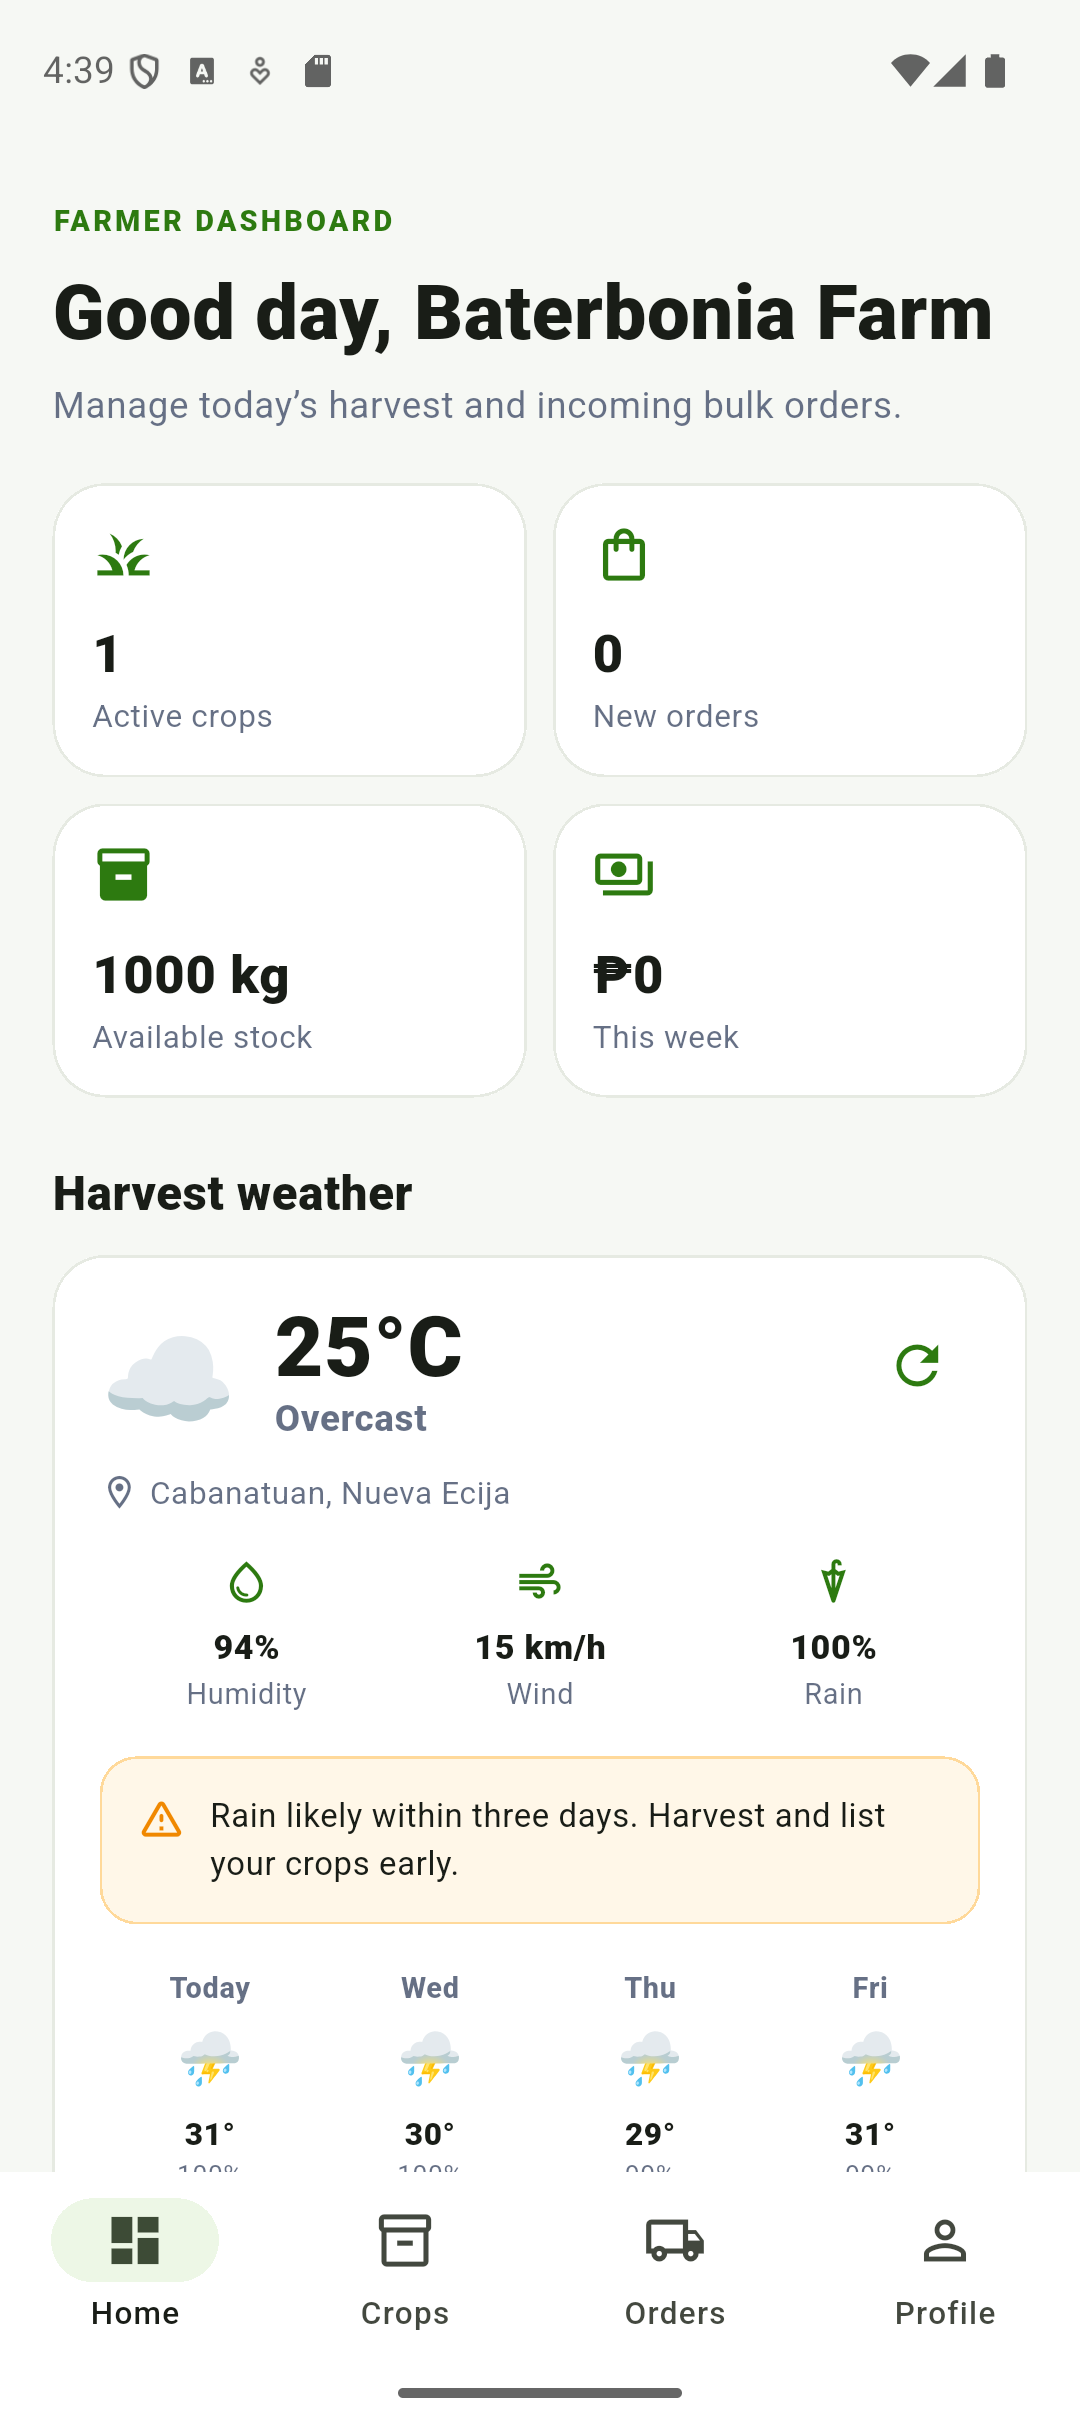
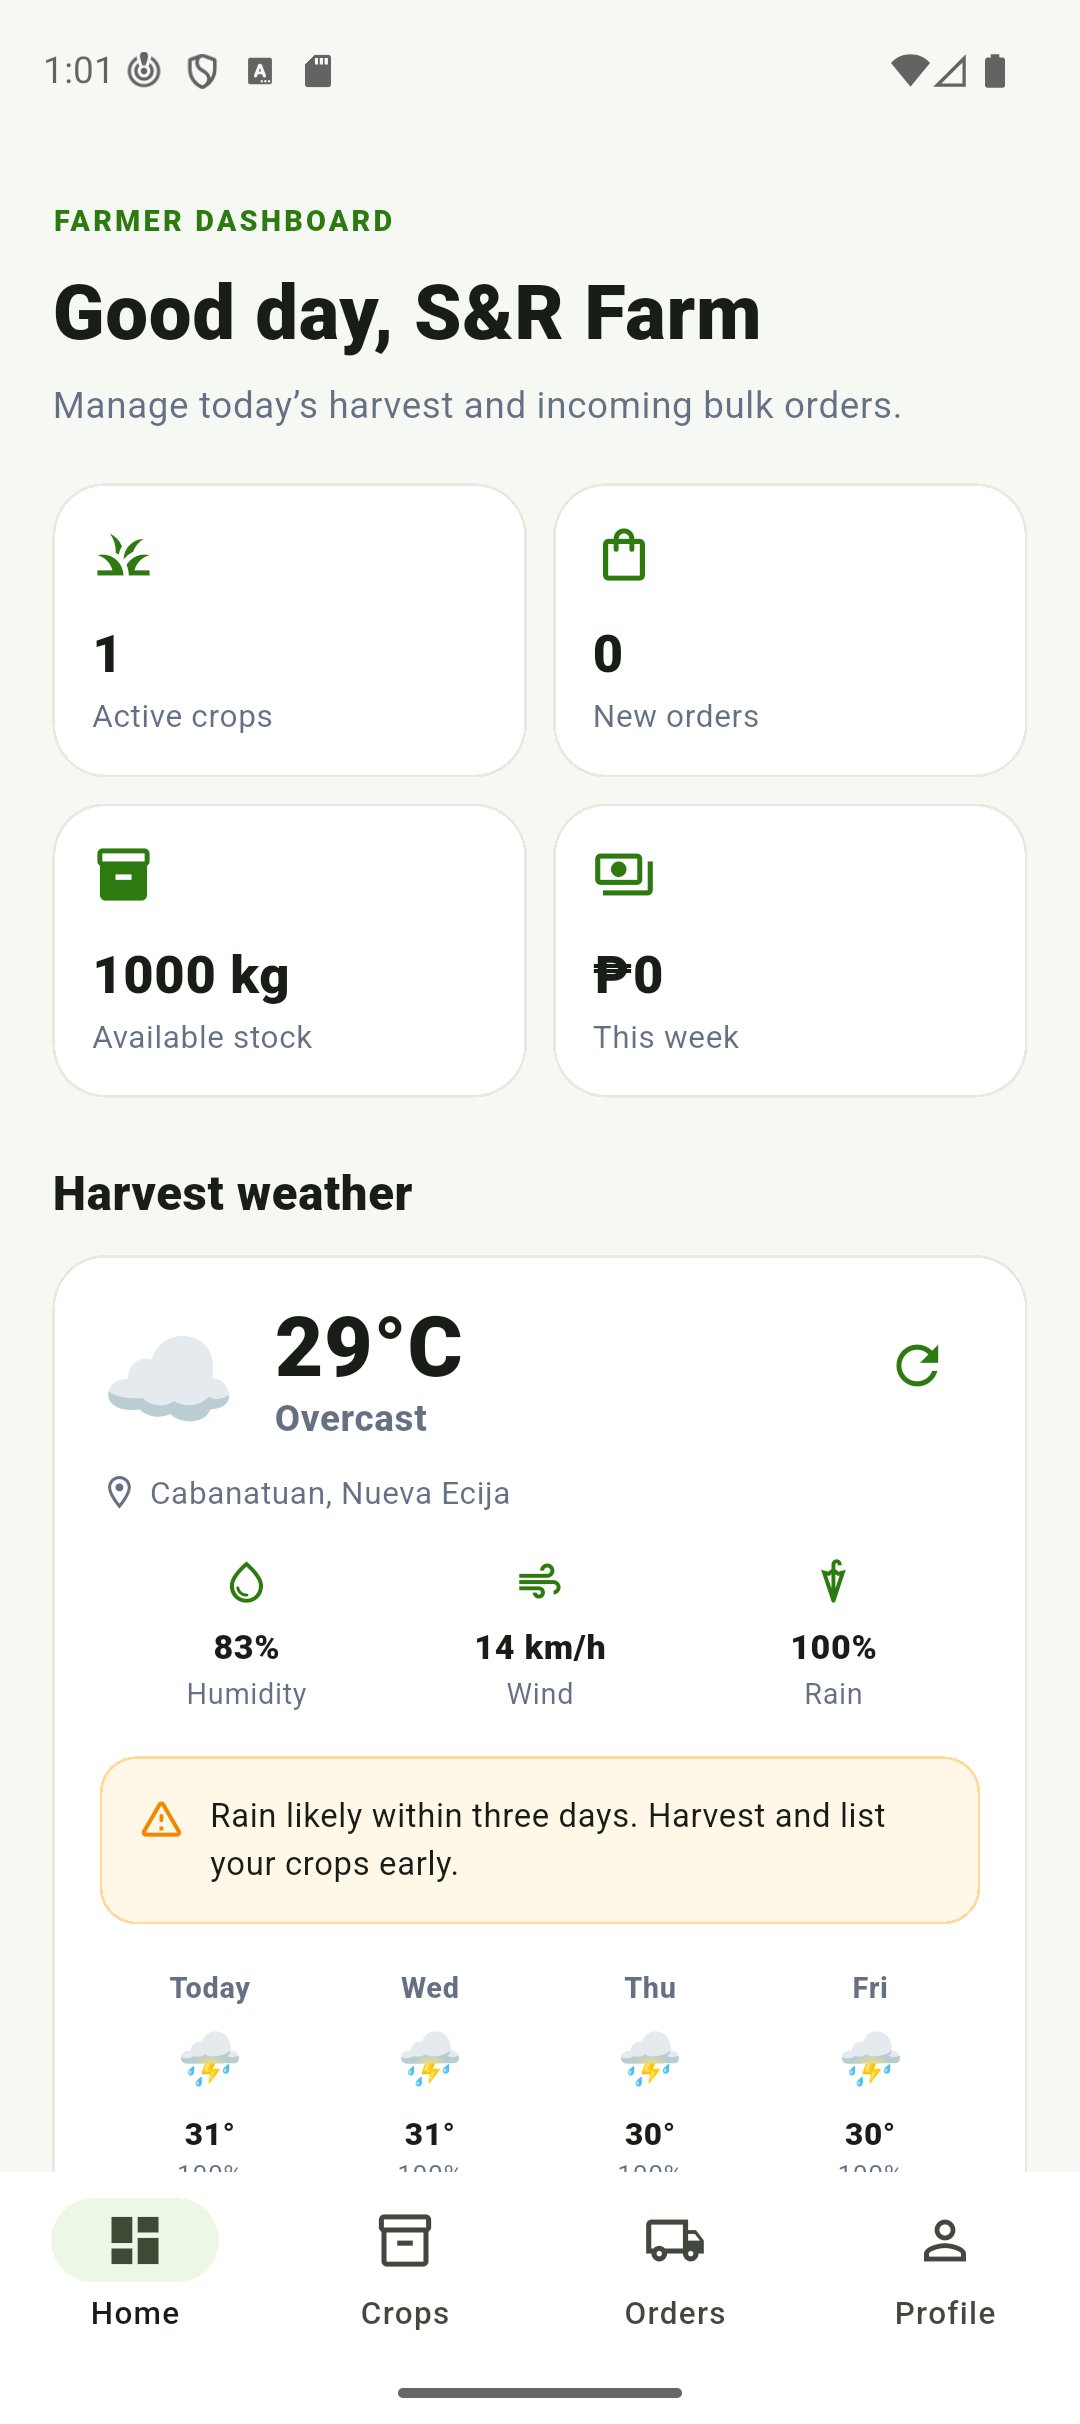
Refresh screenshots and document OSRM as the second API
The farmer dashboard shot still read "Baterbonia Farm", so it is retaken as
S&R Farm. Two new shots cover this week's changes: the Order Pool showing real
OSRM driving distance and ETA, and the four-wheel-only vehicle picker.

Fixes "1 farms" on the pool card, which the new screenshot made visible.

Adds tool/seed_demo_pool.dart so the pool can be repopulated for a demo -- an
empty pool shows nothing to route. It is idempotent and tags its rows with
demoSeed so they can be found and removed.

diff --git a/mobile/tool/seed_demo_pool.dart b/mobile/tool/seed_demo_pool.dart
@@ -1,0 +1,86 @@
+// ignore_for_file: avoid_print
+
+import 'package:agrilink_mobile/models/agri_models.dart';
+import 'package:agrilink_mobile/services/cloud_database.dart';
+
+/// Seeds two packed orders heading to the same town so the rider Order Pool
+/// has a real pooled route to show. Safe to re-run: it skips if demo orders
+/// are already present.
+Future<void> main() async {
+  final database = CloudDatabase();
+
+  final farmer = await database.findAccountByEmail('farmer.baterbonia@agrilink.ph');
+  final buyer = await database.findAccountByEmail('consumer.fatima@agrilink.ph');
+  if (farmer == null || buyer == null) {
+    print('Run create_explorer_accounts.dart first.');
+    return;
+  }
+  final crops = await database.listCrops(farmerId: farmer['id'] as String);
+  if (crops.isEmpty) {
+    print('No crop to order. Run create_explorer_accounts.dart first.');
+    return;
+  }
+  final crop = crops.first;
+
+  final existing = await database.listOrders();
+  if (existing.any((order) => '${order['demoSeed'] ?? ''}' == 'pool')) {
+    print('Demo pool orders already exist.');
+    return;
+  }
+
+  // S&R Farm sits in San Ildefonso, Bulacan; both buyers are in Cabanatuan,
+  // so the two orders group into one pooled route.
+  const farmLatitude = 15.0794;
+  const farmLongitude = 120.9414;
+
+  final drops = [
+    (
+      name: 'Perono Food House',
+      address: 'Burgos Ave, Cabanatuan City, Nueva Ecija',
+      latitude: 15.4864,
+      longitude: 120.9673,
+      quantity: 120,
+    ),
+    (
+      name: 'Aling Nena Carinderia',
+      address: 'Maharlika Highway, Cabanatuan City, Nueva Ecija',
+      latitude: 15.4931,
+      longitude: 120.9702,
+      quantity: 80,
+    ),
+  ];
+
+  for (final drop in drops) {
+    final distanceKm = 52.0;
+    final fee = DeliveryPricing.fee(
+      distanceKm: distanceKm,
+      quantityKg: drop.quantity,
+    );
+    await database.createOrder({
+      'demoSeed': 'pool',
+      'buyerId': buyer['id'],
+      'buyerName': drop.name,
+      'buyerPhone': '${buyer['phone']}',
+      'farmerId': farmer['id'],
+      'farmerName': '${farmer['name']}',
+      'farmerPhone': '${farmer['phone']}',
+      'cropId': crop['id'],
+      'cropName': '${crop['name']}',
+      'quantityKg': drop.quantity,
+      'pricePerKg': (crop['pricePerKg'] as num?)?.round() ?? 52,
+      'totalPrice':
+          ((crop['pricePerKg'] as num?)?.round() ?? 52) * drop.quantity,
+      'deliveryFee': fee,
+      'deliveryAddress': drop.address,
+      'deliveryLatitude': drop.latitude,
+      'deliveryLongitude': drop.longitude,
+      'farmLocation': 'San Ildefonso, Bulacan',
+      'farmLatitude': farmLatitude,
+      'farmLongitude': farmLongitude,
+      'paymentMethod': 'GCash',
+      'paymentStatus': 'paid',
+      'status': OrderStatus.readyForPickup.wire,
+    });
+    print('READY packed order for ${drop.name} (${drop.quantity} kg)');
+  }
+}

diff --git a/mobile/lib/widgets/ui_kit.dart b/mobile/lib/widgets/ui_kit.dart
@@ -721,7 +721,8 @@ class PoolCard extends StatelessWidget {
               ),
               const SizedBox(height: 6),
               Text(
-                '$orders orders • $farms farms • $distance',
+                '$orders order${orders == 1 ? '' : 's'} • '
+                '$farms farm${farms == 1 ? '' : 's'} • $distance',
                 style: const TextStyle(color: muted),
               ),
               const SizedBox(height: 16),

diff --git a/docs/Week5_API_Documentation.md b/docs/Week5_API_Documentation.md
@@ -134,6 +134,28 @@ calls; the refresh button clears it so refresh always means a real request.
 POST was not implemented because Open-Meteo is read-only and exposes no POST
 endpoint.
 
+### A second public API: OSRM routing
+
+The project also calls **OSRM** (`https://router.project-osrm.org/route/v1/driving/...`),
+a free routing API that needs no key. It returns a driving route as GeoJSON:
+
+```json
+{ "routes": [ {
+    "distance": 102344.7, "duration": 6019.2,
+    "geometry": { "coordinates": [[120.9414, 15.0794], ...] }
+} ] }
+```
+
+`distance` (metres) and `duration` (seconds) are parsed into a `RoutePath`, and
+`geometry.coordinates` is drawn as the rider's route line on the map. This was
+already powering the active-trip map; this week it was extended to the **Order
+Pool**, which previously showed a straight-line estimate. Riders now see the
+real road distance and ETA before accepting a route — screenshot 6.
+
+Routes are fetched one at a time and only for the batches on screen, and are
+cached by waypoint list, because this runs against the public OSRM demo server
+and the pool reloads every few seconds.
+
 **Database impact:** no new collection. The feature *reads* the existing
 `latitude` / `longitude` fields in the `profile` map of `mobileUsers`, captured
 when the user pinned their location at registration. Forecasts are not
@@ -154,6 +176,8 @@ All captured on a Pixel 9 emulator (Android 16) against the live API.
 | 3 | `screenshots/03-seven-day-outlook.png` | **Full outlook** — 7-day table with per-day condition, rain chance, rainfall in mm, and high/low |
 | 4 | `screenshots/04-town-search-geocoding.png` | **Second endpoint** — geocoding search for "Baguio" returning 8 matches |
 | 5 | `screenshots/05-offline-error-handling.png` | **Error handling** — the app with Wi-Fi and mobile data off, showing a clear message and a retry action instead of hanging |
+| 6 | `screenshots/06-rider-pool-osrm-routing.png` | **Second API** — the Order Pool showing real driving distance and ETA (102 km • 1h 40m) from OSRM |
+| 7 | `screenshots/07-four-wheel-vehicle-only.png` | Rider signup restricted to four-wheel vehicles |
 
 ![Farmer harvest weather](screenshots/01-farmer-harvest-weather.png)
 
